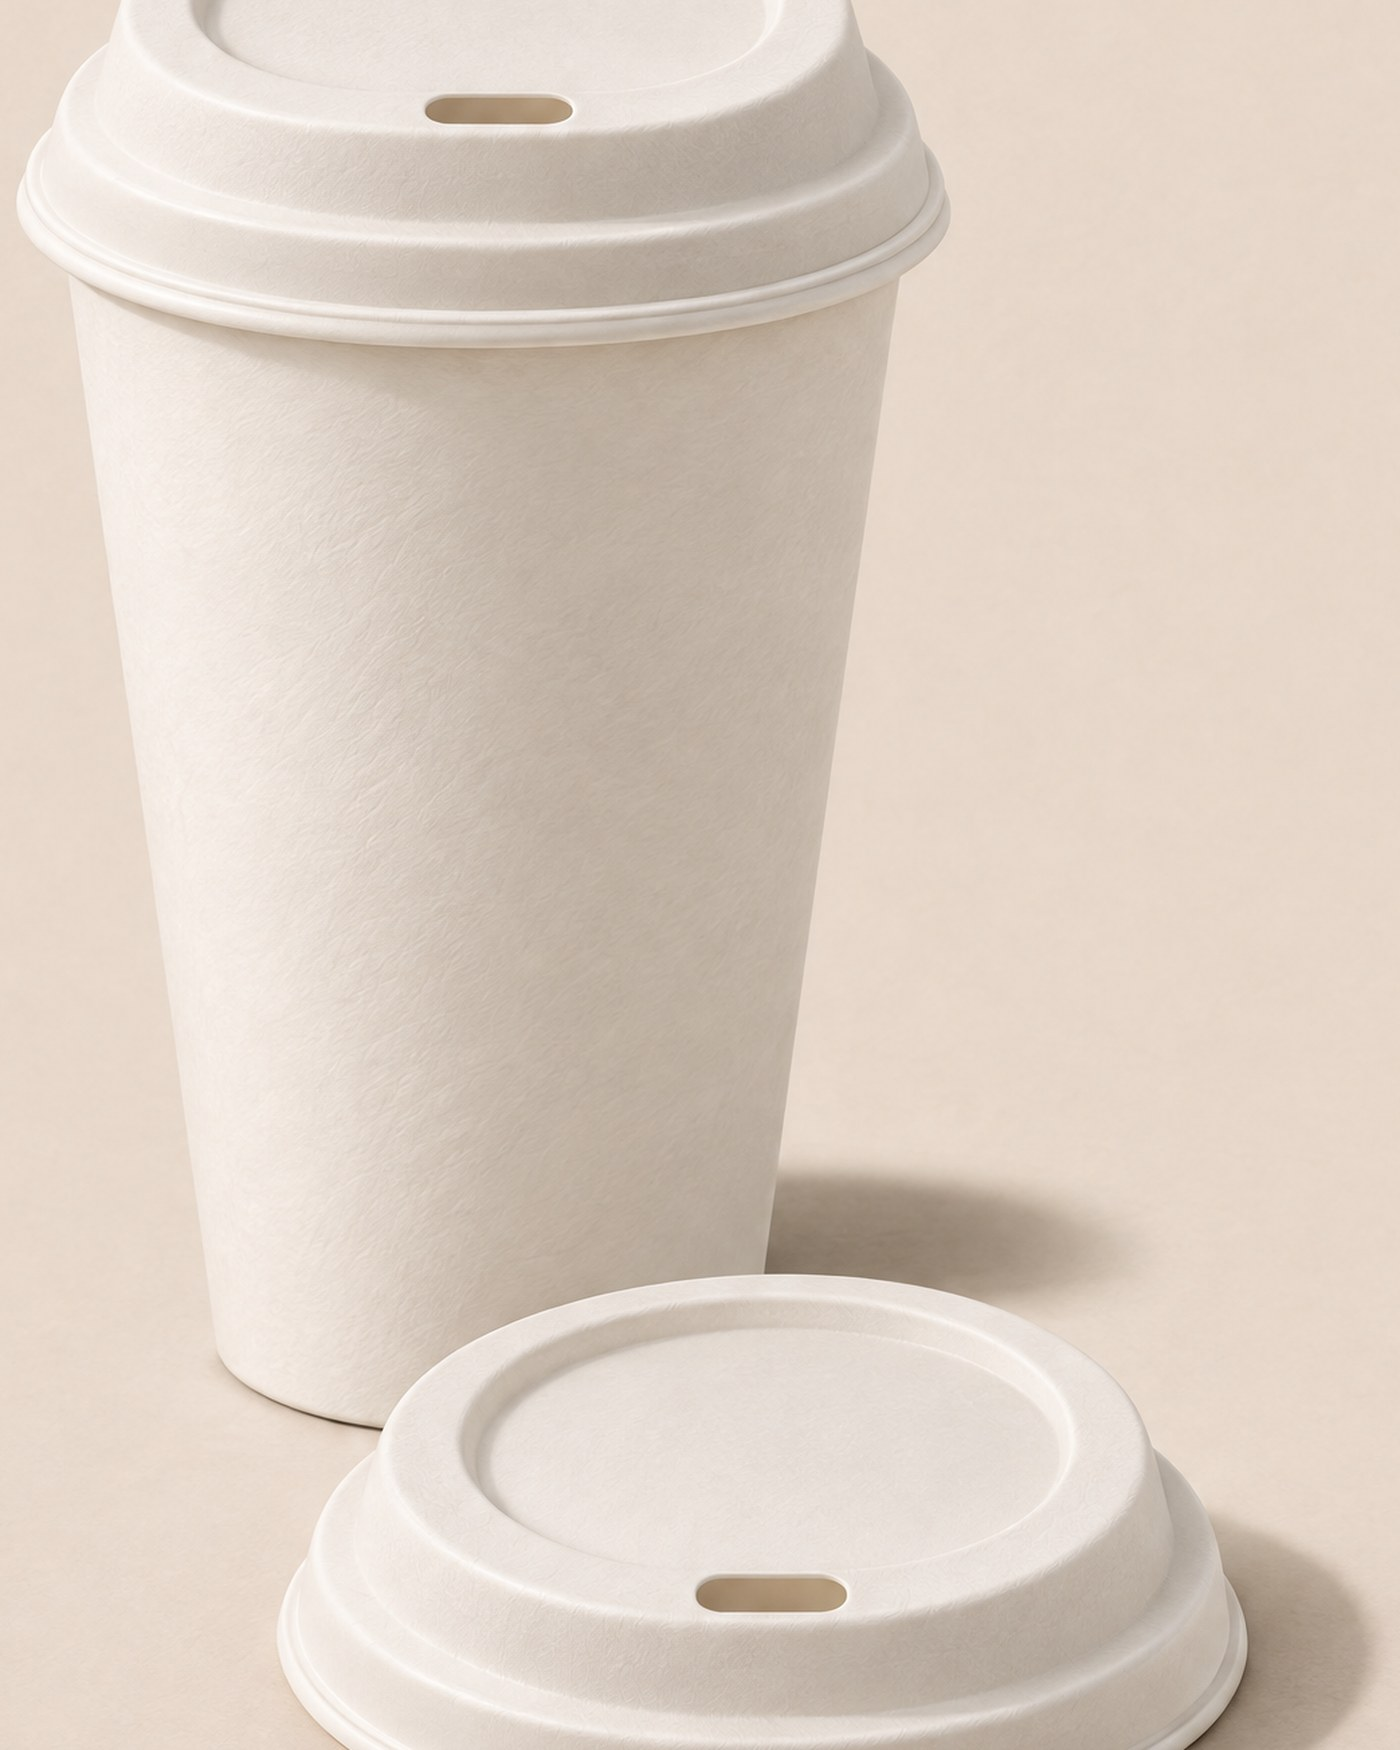
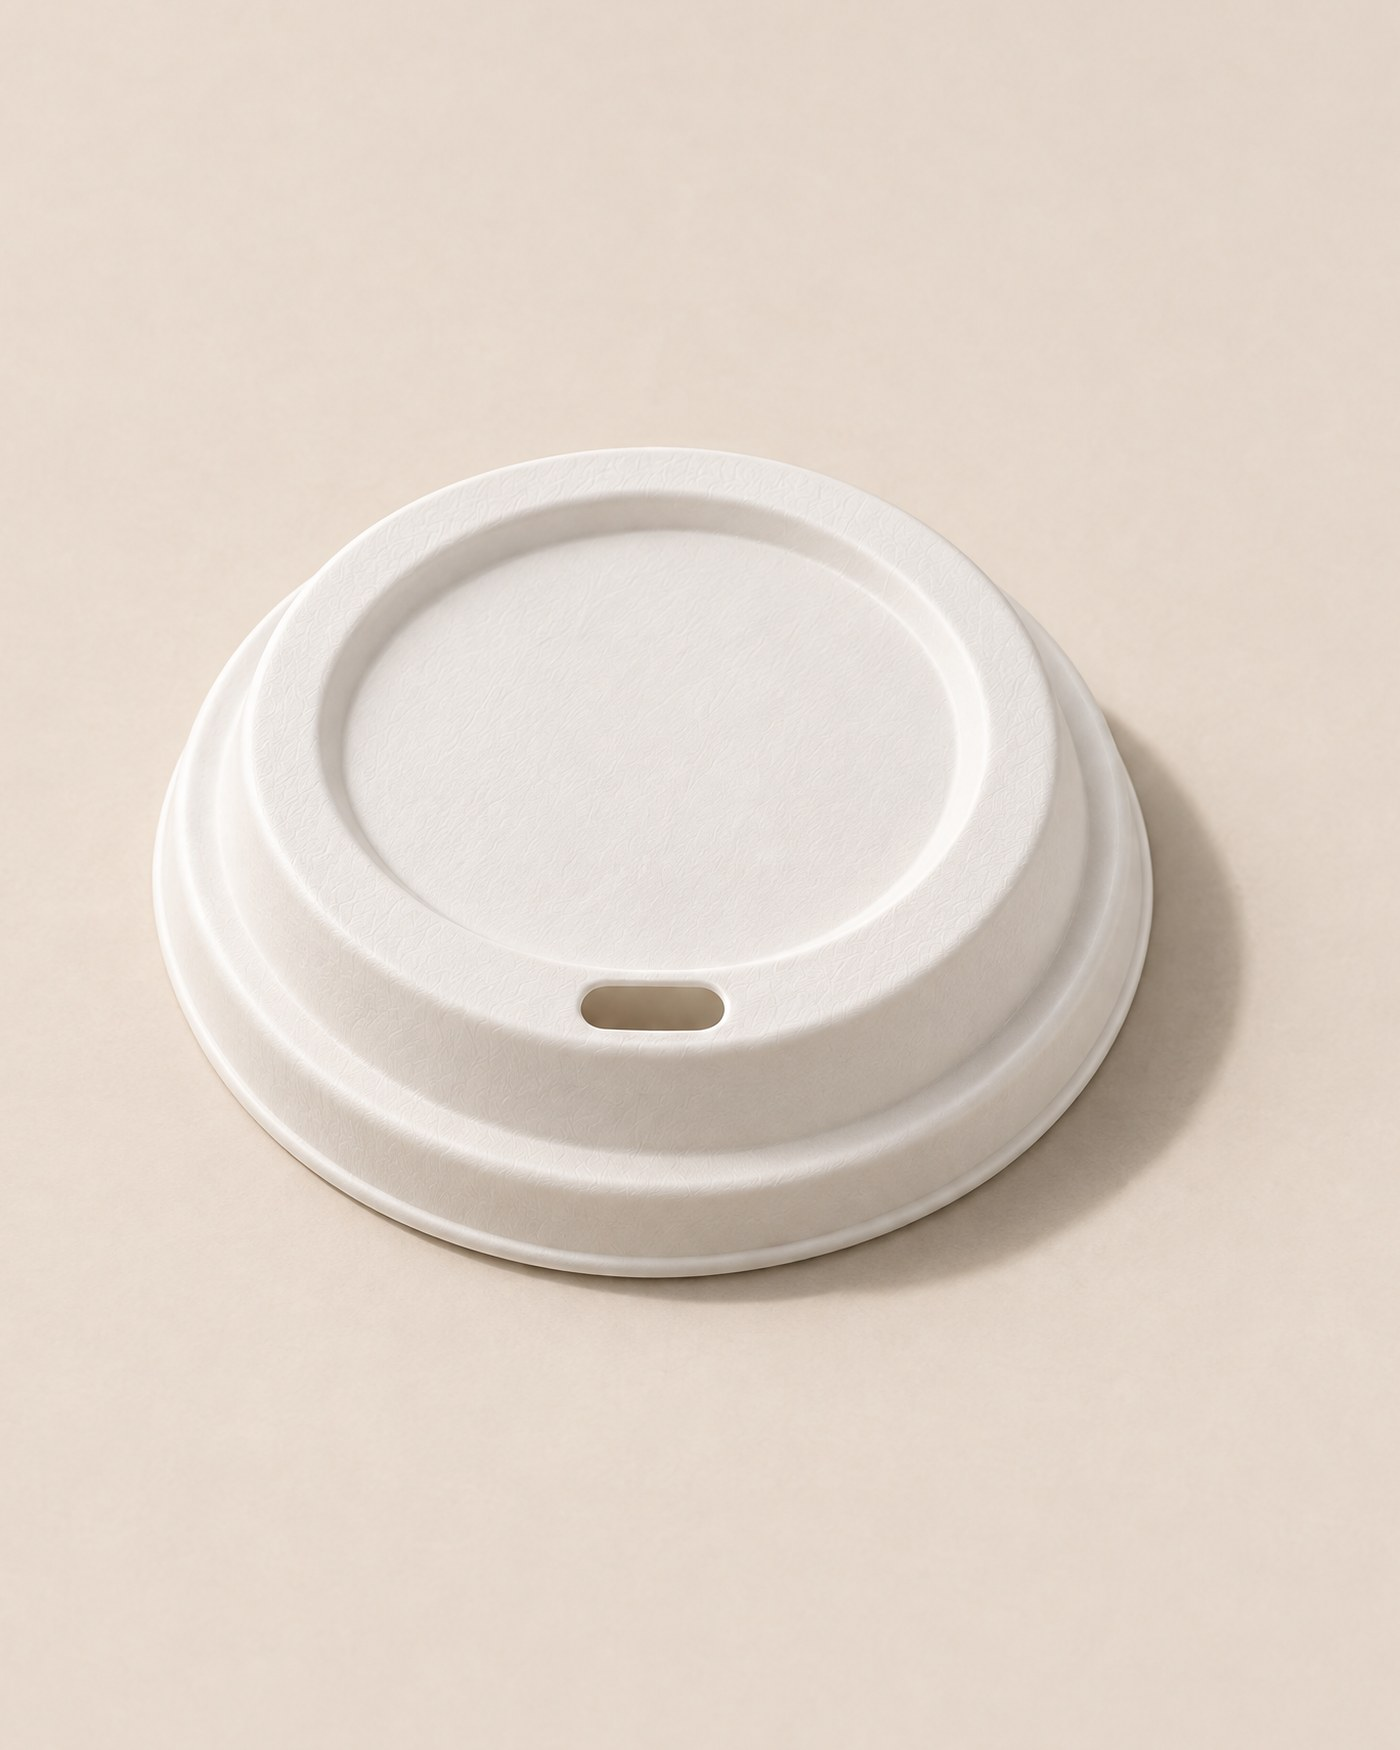
Lid photos are lid-only: single lid front, stack of three on hover, two lids on the home card

diff --git a/src/lib/asset-version.ts b/src/lib/asset-version.ts
@@ -3,7 +3,7 @@
  * are replaced: the URLs change, so no browser or CDN keeps serving the old
  * files. next.config.ts allows exactly this query on local images.
  */
-export const ASSET_VERSION = "6";
+export const ASSET_VERSION = "7";
 
 export function v(publicPath: string): string {
   return `${publicPath}?v=${ASSET_VERSION}`;

diff --git a/CLAUDE.md b/CLAUDE.md
@@ -1,6 +1,6 @@
 # Made to Disappear site
 
-- Brand card (branch brand-card, 2026-11-12/13): docs/brand/brand-card-2026-11-12.md records the design card the user supplied in chat (the PDF was not saved) and asked to be applied to the whole site; it supersedes the colour and type guidance in docs/brand-card.md (routes, data model and claims rules there still apply). Palette: bone #EDE8DF page ground, paper #F6F2EB cards/inputs/image wells, ink #111111 text and primary buttons, soil #2A2420 the one dark band per page (the footer), stone #6B675F secondary text, ash #8B877F disabled/coming-soon/borders only, raw bamboo #C4A672 only as a left rule on notes (`.note`). The old token names in globals.css (`--color-forest`, `--color-cream`, `--color-mint`, `--color-sage`, `--color-clay`…) are kept so every utility still works, each remapped to a card colour; a "Brand card layer" at the end of globals.css overrides components: square corners everywhere except `.btn`/`.chip` (a `[class*="rounded-["]` override), no shadows/gradients/glass/mesh/grain, `.card` paper with a hairline and colour-only hover, outlined chips in lowercase, ink primary button + outlined others (one primary per screen; the header button is outlined), `.btn` and nav lowercase via text-transform, headings always ink, `.price-table`/`.spec-table` hairline rows with an ink rule under the header row, `.max-w-7xl` capped at 1120 px with 28 px gutters, Reveal fades only (200 ms), Marquee static. Type: Helvetica Neue / Arial system stack via `--font-display/--font-serif/--font-sans` (no Google fonts; JetBrains Mono stays for SKUs); .t-hero 72/1/700/-0.04em, .t-section 40, .t-page/.t-heading 26, .t-card 19, .t-lead 20/500, .t-label 11.5 caps stone. Headings are lowercase with a period in the copy itself (acronyms stay); PageHeader titles and most h2s were lowercased on 2026-11-13. Home page: hero (product on bone, headline "serve it. then let it go.", one primary + a text link, a hairline fact list), then numbered sections 01 the range (hairline product grid), 02 paper outside. PHA inside. (soil photo + hairline spec list), 03 after the coffee. (breakdown strip + three hairline columns), 04 what it costs. (CostCalculator, hairline receipt), 05 the Inner Harbour (desaturated photo + hairline stats), 06 asked often.; the footer is the only soil band and carries "keep it. then let it go." Photography (2026-11-13, GPT Image 2.6 via Higgsfield from the renders and the badge, masters in docs/brand/generated/60–65): public/hero-bone.jpg (16:9), `[sku]-front.jpg` the 4:5 pair with the base mark, `[sku]-3q.jpg` single standing cups cropped from one three-cup frame, lid front/3q; all on bone #EDE8DF with one hard light and a real shadow. ProductImage frames are 4:5 object-cover. public/icon.png and apple-icon.png are the card's favicon: an ink dot on bone, low and right.  Interaction layer (2026-11-13, after the user said the photos were off-centre and the site had no features): the product photography was regenerated on 2026-11-13 with the subject dead centre and a short soft shadow (GPT Image 2.6, masters docs/brand/generated/80–87: hero lineup, three front pairs, lid pair, three standing cups; visual mass measured within 5% of centre with the scratchpad measure.py), then the product tiles and gallery cut tight so the cups fill the 4:5 frame and bleed top and bottom (user, 2026-11-13: "like this… not in the middle", shown on the range tiles only); the hero keeps the full centred lineup with its margins; re-cropping the first set never looked right because the long hard shadows ran to one edge. Every photo URL carries ?v=ASSET_VERSION from src/lib/asset-version.ts (next.config.ts images.localPatterns allows exactly that query): bump the constant whenever a photo file is replaced, or browsers keep the old file for hours. soil-mark.jpg is a Higgsfield outpaint of the original (master 72), and public/breakdown/1–4.jpg are 4:5 cuts of the 4k-upscaled strip (master 73). The header is transparent until the page scrolls (ScrollState sets data-scrolled; the brand layer then paints it bone with a hairline). Home page (rebuilt again 2026-11-13 after the user asked for "a mix between Bloom Energy and nothing.eco" in the card's colours; the numbered-section layout was rejected because its 160 px number column pushed every section right of centre): full-bleed photo hero (`.bleed`; public/hero-wide.jpg is a 2:1 outpaint of the centred lineup with the cups weighted to the right, master 88, so the headline sits over empty bone at the left; on phones the photo stacks above the text), a four-cell trust strip on hairlines (CBC, TÜV Austria, lining, ships from), two square feature cards with the photo as the card and text over the empty bone (card-cups.jpg / card-lids.jpg), a split statement band (the one soil panel `bg-soil-band` left, soil-mark.jpg right), "after the coffee." with the scrubber, a Bloom-style stat band (sentence + three counting percentages in hairline cells), "the range." tiles with a from-price and an outlined order button, the calculator, a full-width hairline FAQ; every section heading is a SectionHead (heading left, one outlined action right) and spans the full 1120 px. The footer ends with the wordmark set across the full width at 18% (`.footer-mark`). Catalogue (/products and category pages, 2026-11-13): CatalogGrid is a toolbar (category pills, count, search at right; filters still in the URL) over a two-across grid of stacked ProductCards (4:5 HoverSwap photo, category label + SKU, name, tagline from `taglines` in src/lib/copy.ts, one meta line of capacity · material · rim, cert link, Price, stock line, compact AddToCart); the products page adds a "compare the sizes." spec table built from the cups' specs and two notes (sample pack, quick order). The `motion` library is no longer imported by CatalogGrid. SectionRail/CountUp/BreakdownScrubber/HoverSwap remain as components (SectionRail is no longer rendered). Motion layer (end of globals.css, all inside prefers-reduced-motion: no-preference): `.hero-in` children rise in with a stagger and `.hero-photo` settles from a 1.04 scale on load (CSS only, no JS on the critical path); Reveal/RevealGroup now fade and rise 14 px over 700 ms with the stagger step; `.drift` gives the soil photo an 18 s alternate zoom; `.zoom-on-hover` and HoverSwap scale the photo 1.035 on hover; buttons lift 1 px on hover and press to 0.98; details answers rise in; smooth scrolling. HoverSwap fades product tiles and cards to the standing `-3q` shot on hover (Product.hover from withAssets), BreakdownScrubber is the four-frame well you drag across or pick a stage from (it steps through once on arrival, then only moves when moved), CountUp counts the survey percentages in. All fades, nothing slides. Harnesses: scratchpad hovershot.mjs (hover + screenshot) and scrollshot.mjs. The older passes live on branches calmer-register and draft-blend; the user's standing rules from them still hold (no "per SKU", flat 16/17/18¢ pricing, Learn library, cost calculator as a sentence + receipt).
+- Brand card (branch brand-card, 2026-11-12/13): docs/brand/brand-card-2026-11-12.md records the design card the user supplied in chat (the PDF was not saved) and asked to be applied to the whole site; it supersedes the colour and type guidance in docs/brand-card.md (routes, data model and claims rules there still apply). Palette: bone #EDE8DF page ground, paper #F6F2EB cards/inputs/image wells, ink #111111 text and primary buttons, soil #2A2420 the one dark band per page (the footer), stone #6B675F secondary text, ash #8B877F disabled/coming-soon/borders only, raw bamboo #C4A672 only as a left rule on notes (`.note`). The old token names in globals.css (`--color-forest`, `--color-cream`, `--color-mint`, `--color-sage`, `--color-clay`…) are kept so every utility still works, each remapped to a card colour; a "Brand card layer" at the end of globals.css overrides components: square corners everywhere except `.btn`/`.chip` (a `[class*="rounded-["]` override), no shadows/gradients/glass/mesh/grain, `.card` paper with a hairline and colour-only hover, outlined chips in lowercase, ink primary button + outlined others (one primary per screen; the header button is outlined), `.btn` and nav lowercase via text-transform, headings always ink, `.price-table`/`.spec-table` hairline rows with an ink rule under the header row, `.max-w-7xl` capped at 1120 px with 28 px gutters, Reveal fades only (200 ms), Marquee static. Type: Helvetica Neue / Arial system stack via `--font-display/--font-serif/--font-sans` (no Google fonts; JetBrains Mono stays for SKUs); .t-hero 72/1/700/-0.04em, .t-section 40, .t-page/.t-heading 26, .t-card 19, .t-lead 20/500, .t-label 11.5 caps stone. Headings are lowercase with a period in the copy itself (acronyms stay); PageHeader titles and most h2s were lowercased on 2026-11-13. Home page: hero (product on bone, headline "serve it. then let it go.", one primary + a text link, a hairline fact list), then numbered sections 01 the range (hairline product grid), 02 paper outside. PHA inside. (soil photo + hairline spec list), 03 after the coffee. (breakdown strip + three hairline columns), 04 what it costs. (CostCalculator, hairline receipt), 05 the Inner Harbour (desaturated photo + hairline stats), 06 asked often.; the footer is the only soil band and carries "keep it. then let it go." Photography (2026-11-13, GPT Image 2.6 via Higgsfield from the renders and the badge, masters in docs/brand/generated/60–65): public/hero-bone.jpg (16:9), `[sku]-front.jpg` the 4:5 pair with the base mark, `[sku]-3q.jpg` single standing cups cropped from one three-cup frame, lid front/3q; all on bone #EDE8DF with one hard light and a real shadow. ProductImage frames are 4:5 object-cover. public/icon.png and apple-icon.png are the card's favicon: an ink dot on bone, low and right.  Interaction layer (2026-11-13, after the user said the photos were off-centre and the site had no features): the product photography was regenerated on 2026-11-13 with the subject dead centre and a short soft shadow (GPT Image 2.6, masters docs/brand/generated/80–87: hero lineup, three front pairs, lid pair, three standing cups; visual mass measured within 5% of centre with the scratchpad measure.py), the lid photos are lid-only (a single lid front, a stack of three for the hover shot, two lids for card-lids.jpg; masters 89–91) because a cup wearing the lid read as another cup SKU (user, 2026-11-13), then the product tiles and gallery cut tight so the cups fill the 4:5 frame and bleed top and bottom (user, 2026-11-13: "like this… not in the middle", shown on the range tiles only); the hero keeps the full centred lineup with its margins; re-cropping the first set never looked right because the long hard shadows ran to one edge. Every photo URL carries ?v=ASSET_VERSION from src/lib/asset-version.ts (next.config.ts images.localPatterns allows exactly that query): bump the constant whenever a photo file is replaced, or browsers keep the old file for hours. soil-mark.jpg is a Higgsfield outpaint of the original (master 72), and public/breakdown/1–4.jpg are 4:5 cuts of the 4k-upscaled strip (master 73). The header is transparent until the page scrolls (ScrollState sets data-scrolled; the brand layer then paints it bone with a hairline). Home page (rebuilt again 2026-11-13 after the user asked for "a mix between Bloom Energy and nothing.eco" in the card's colours; the numbered-section layout was rejected because its 160 px number column pushed every section right of centre): full-bleed photo hero (`.bleed`; public/hero-wide.jpg is a 2:1 outpaint of the centred lineup with the cups weighted to the right, master 88, so the headline sits over empty bone at the left; on phones the photo stacks above the text), a four-cell trust strip on hairlines (CBC, TÜV Austria, lining, ships from), two square feature cards with the photo as the card and text over the empty bone (card-cups.jpg / card-lids.jpg), a split statement band (the one soil panel `bg-soil-band` left, soil-mark.jpg right), "after the coffee." with the scrubber, a Bloom-style stat band (sentence + three counting percentages in hairline cells), "the range." tiles with a from-price and an outlined order button, the calculator, a full-width hairline FAQ; every section heading is a SectionHead (heading left, one outlined action right) and spans the full 1120 px. The footer ends with the wordmark set across the full width at 18% (`.footer-mark`). Catalogue (/products and category pages, 2026-11-13): CatalogGrid is a toolbar (category pills, count, search at right; filters still in the URL) over a two-across grid of stacked ProductCards (4:5 HoverSwap photo, category label + SKU, name, tagline from `taglines` in src/lib/copy.ts, one meta line of capacity · material · rim, cert link, Price, stock line, compact AddToCart); the products page adds a "compare the sizes." spec table built from the cups' specs and two notes (sample pack, quick order). The `motion` library is no longer imported by CatalogGrid. SectionRail/CountUp/BreakdownScrubber/HoverSwap remain as components (SectionRail is no longer rendered). Motion layer (end of globals.css, all inside prefers-reduced-motion: no-preference): `.hero-in` children rise in with a stagger and `.hero-photo` settles from a 1.04 scale on load (CSS only, no JS on the critical path); Reveal/RevealGroup now fade and rise 14 px over 700 ms with the stagger step; `.drift` gives the soil photo an 18 s alternate zoom; `.zoom-on-hover` and HoverSwap scale the photo 1.035 on hover; buttons lift 1 px on hover and press to 0.98; details answers rise in; smooth scrolling. HoverSwap fades product tiles and cards to the standing `-3q` shot on hover (Product.hover from withAssets), BreakdownScrubber is the four-frame well you drag across or pick a stage from (it steps through once on arrival, then only moves when moved), CountUp counts the survey percentages in. All fades, nothing slides. Harnesses: scratchpad hovershot.mjs (hover + screenshot) and scrollshot.mjs. The older passes live on branches calmer-register and draft-blend; the user's standing rules from them still hold (no "per SKU", flat 16/17/18¢ pricing, Learn library, cost calculator as a sentence + receipt).
 - Do not mention shipping speed (no same-day, cutoffs or dispatch times) and never present the round wordmark badge as a certification mark: it is our logo, not TÜV Austria's.
 - The site never shows its own to-do list: no "pending", "TODO" or placeholder values in copy, chips, tables or the PDF. Missing data (certificate numbers, phone) is omitted, not labelled. Ask the user for it in chat instead.
 - Never use the words biodegradable, marine, ocean, landfill, municipal, green bin, eco or planet-friendly in site copy. `npm run lint:copy` enforces this and runs before every build.
